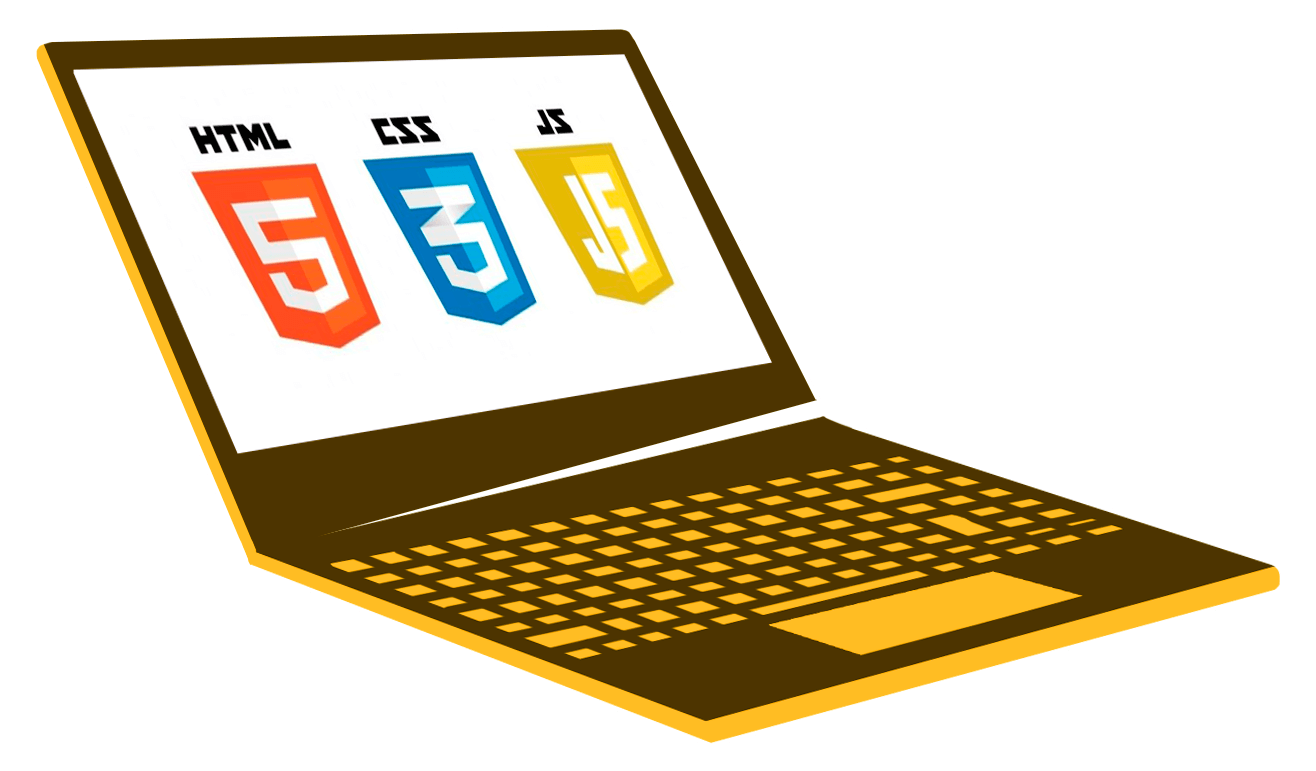
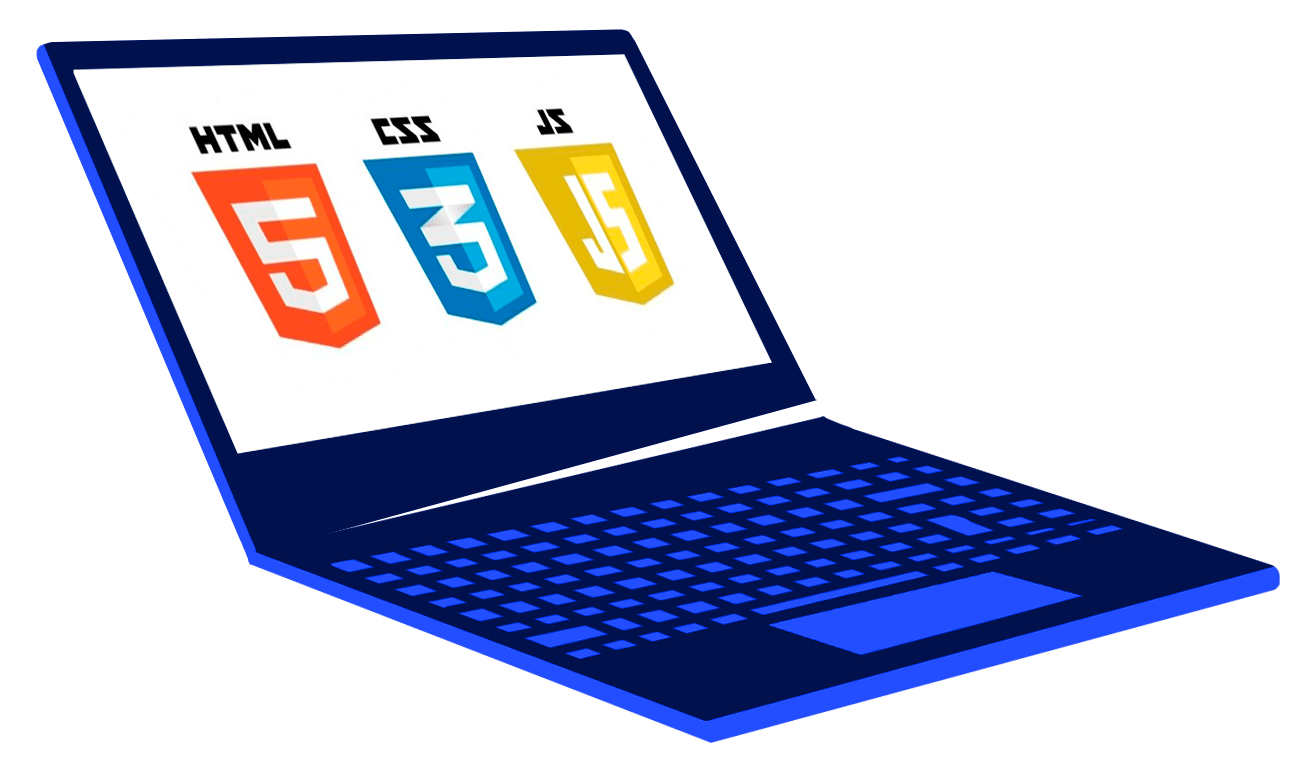
feat: rework in the design

Changed region(s): [[0.0312, 0.0311, 0.997, 0.965]]

diff --git a/src/components/Hero.tsx b/src/components/Hero.tsx
@@ -1,36 +1,54 @@
 import Image from "next/image";
 import picture from "../assets/picture.jpg";
 import "./Hero.css";
+import { Github, Linkedin } from "lucide-react";
 
 export function Hero() {
   return (
-    <section className="w-full py-36 border-b-2 border-primary bg-gradient-to-r from-terciary via-terciary to-secondary">
+    <section className="w-full py-36 border-b-2 border-primary bg-gradient-to-r from-terciary via-terciary to-secondary overflow-hidden relative">
+      <div className=" animate-[appear_3s_ease-in-out] before:absolute before:h-96 before:w-96 before:bottom-0 before:-left-10 before:bg-gradient-to-tr from-terciary via-terciary to-secondary before:z-10 before:rounded-[50%] after:h-32 after:w-32 after:absolute after:top-10 after:right-20 after:bg-gradient-to-bl after:from-transparent after:via-secondary after:to-primary after:rounded-[50%]" />
+
       <div className="flex flex-col-reverse gap-10 items-center container mx-auto px-5 sm:flex-row">
         {/*Left*/}
-        <div className="flex items-center flex-1">
-          <h1 className="text-4xl sm:text-5xl mx-auto font-bold text-zinc-200">
-            Olá,
-            <br />
-            me chamo
-            <br />
-            <p className="text-primary animate">Lucas Emanoel {"</>"}</p>
+        <div className="flex items-center flex-1 z-20">
+          <h1 className="text-6xl sm:text-6xl mx-auto my-20 font-bold font-sans text-zinc-200 ">
+            <span className="flex items-center gap-5">
+              Lucas Emanoel
+              <a
+                href="https://www.linkedin.com/in/lucas-emanoel-388733234/"
+                target="blank"
+                className="hover:cursor-pointer"
+              >
+                <Linkedin height={30} width={30} />
+              </a>
+              <a
+                href="https://github.com/lucastheldl"
+                target="blank"
+                className="hover:cursor-pointer"
+              >
+                <Github height={30} width={30} />
+              </a>
+            </span>
+            <p className="text-primary animate">
+              Desenvolvedor Frontend{"</>"}
+            </p>
           </h1>
         </div>
         {/*Right*/}
-        <div className="flex flex-col gap-10 items-center flex-1 mx-auto">
-          <Image
+        {/*  <div className="flex flex-col gap-10 items-center flex-1 mx-auto">
+           <Image
             src={picture}
             alt=""
             className="w-[350px] h-auto rounded-full border border-primary"
-          />
-          <a
+          /> 
+           <a
             href="/files/curriculo.pdf"
             download
             className="hidden text-2xl font-bold text-terciary rounded-full bg-primary py-5 px-12 border border-transparent sm:block cursor-pointer transition-colors hover:border-primary hover:bg-terciary hover:text-primary"
           >
             Baixar CV
-          </a>
-        </div>
+          </a> 
+        </div> */}
       </div>
     </section>
   );

diff --git a/src/lib/lists.ts b/src/lib/lists.ts
@@ -2,10 +2,11 @@
 import PokeApi from "../assets/Pokeapi.jpg";
 import tmdb from "../assets/tmdb.png";
 import weather from "../assets/weatherApp.jpg";
-import pomodoro from "../assets/1681137327493.jpg";
+import pomodoro from "../assets/PomodoroApp.png";
 import shirtShop from "../assets/shirtShop.png";
-import miniBlog from "../assets/miniBog.jpg";
+import miniBlog from "../assets/MiniBlog.png";
 import booksCollection from "../assets/booksCollecion.jpg";
+import githubBlog from "../assets/GithubBlog.png";
 import placeholder from "../assets/reactLogo.jpg";
 //skills
 import html from "../assets/html.png";
@@ -77,7 +78,7 @@ export const projectList = [
   {
     image: miniBlog,
     link: "https://lucastheldl.github.io/React-MiniBlog/",
-    title: "Mini blog",
+    title: "Mini Blog",
     technology: ["React", "CSS", "Firebase"],
     content:
       "Blog público onde o usuário pode criar, editar e visualizar posts",
@@ -85,17 +86,24 @@ export const projectList = [
   {
     image: shirtShop,
     link: "https://shirt-shop-three.vercel.app/",
-    title: "Shirt shop",
+    title: "Loja de Camisas",
     technology: ["Next.js", "Typescript", "Stripe", "Stitches CSS"],
     content: "E-commerce de camisetas com carrinho de compras e checkout",
   },
   {
     image: pomodoro,
     link: "https://lucastheldl.github.io/IgnitePomodoro/",
-    title: "Pomodoro app",
+    title: "Timer Pomodoro",
     technology: ["React", "Typescript", "Styled components"],
     content: "Aplicação de gerenciamento de tarefas usando timer",
   },
+  {
+    image: githubBlog,
+    link: "https://lucastheldl.github.io/GithubBlog/",
+    title: "Tech Blog Github",
+    technology: ["React", "Typescript", "CSS modules"],
+    content: "Blog para documentar minhas postagens de tecnologia",
+  } /*,
   {
     image: booksCollection,
     link: "https://lucastheldl.github.io/BookCollection/",

diff --git a/src/components/Navbar.tsx b/src/components/Navbar.tsx
@@ -10,7 +10,7 @@ export function Navbar() {
     burguerMenu?.classList.replace("opacity-0", "opacity-100");
   }
   return (
-    <nav className="w-full py-5 text-zinc-300 fixed border-b-2 border-primary bg-secondary z-10">
+    <nav className="w-full py-5 text-slate-800 fixed border-b-2 border-primary bg-secondary z-10">
       <div className="flex container mx-auto px-2 items-center justify-between">
         <a href="#" className="text-[2rem] text-primary font-bold">
           {"< / >"}
@@ -20,10 +20,10 @@ export function Navbar() {
             <a href="#about">Sobre mim</a>
           </li>
           <li className="cursor-pointer mr-5 hover:text-primary transition-colors">
-            <a href="#skills">Habilidades</a>
+            <a href="#projects">Projetos</a>
           </li>
           <li className="cursor-pointer mr-5 hover:text-primary transition-colors">
-            <a href="#projects">Projetos</a>
+            <a href="#skills">Habilidades</a>
           </li>
           <li className="cursor-pointer mr-5 hover:text-primary transition-colors">
             <a href="#contact">Contato</a>

diff --git a/src/components/projects/Projects.tsx b/src/components/projects/Projects.tsx
@@ -12,7 +12,7 @@ export function Projects() {
         Projetos
       </h2>
       <div className="flex flex-col items-center container mx-auto px-5">
-        <div className="grid grid-cols-1 md:grid-cols-3 lg:grid-cols-4 gap-10">
+        <div className="grid grid-cols-1 md:grid-cols-3 lg:grid-cols-4 gap-5">
           {projectList.map((project, i) => {
             return (
               <ProjectCard
@@ -31,7 +31,7 @@ export function Projects() {
           target="blank"
           className="flex justify-center"
         >
-          <p className="flex items-center gap-1 mt-20 text-xl font-bold text-zinc-200 cursor-pointer transition-colors hover:text-primary">
+          <p className="flex items-center gap-1 mt-20 text-xl font-bold text-terciary cursor-pointer transition-colors hover:text-primary">
             <ArrowUpLeft size={30} /> Repositórios Github
           </p>
         </a>

diff --git a/src/components/projects/ProjectCard.tsx b/src/components/projects/ProjectCard.tsx
@@ -22,12 +22,8 @@ export function ProjectCard({
       target="_blank"
       className="flex flex-col relative justify-between items-center gap-3 max-w-[300px] min-w-[210px] h-[400px] bg-terciary rounded-xl p-3 border border-transparent transition-all hover:border-primary hover:-translate-y-1"
     >
-      <div className="min-w-[200px] h-52 bg-secondary rounded-xl overflow-hidden">
-        <Image
-          src={coverImage}
-          alt={"project cover"}
-          className="object-cover h-full w-auto"
-        />
+      <div className="min-w-[200px] h-52 bg-transparent flex items-center">
+        <Image src={coverImage} alt={"project cover"} className="w-auto" />
       </div>
       <h3 className="text-xl font-bold text-primary">{title}</h3>
       <p className="text-center">{content}</p>

diff --git a/src/components/Skills.tsx b/src/components/Skills.tsx
@@ -15,9 +15,10 @@ export function Skills() {
 
   return (
     <section
-      className="animate-[wiggle_1s_ease-in-out_infinite] flex-col w-full py-32 border-b-2 border-primary bg-gradient-to-r from-terciary via-terciary to-secondary"
+      className="animate-[wiggle_1s_ease-in-out_infinite] flex-col w-full py-32 border-b-2 border-primary bg-gradient-to-r from-transparent via-terciary to-secondary relative overflow-hidden"
       id="skills"
     >
+      <div className=" after:h-96 after:w-96 after:absolute after:-top-10 after:-right-10 after:bg-gradient-to-bl after:from-terciary after:via-secondary after:to-secondary after:rounded-[50%]" />
       <h2 className="text-center mb-20 text-4xl font-bold text-primary">
         Habilidades
       </h2>

diff --git a/tailwind.config.js b/tailwind.config.js
@@ -8,7 +8,7 @@ module.exports = {
   theme: {
     extend: {
       fontFamily: {
-        sans: "var(--font-roboto)",
+        sans: ["Roboto", "sans-serif"],
       },
       backgroundImage: {
         "gradient-radial": "radial-gradient(var(--tw-gradient-stops))",
@@ -16,9 +16,9 @@ module.exports = {
           "conic-gradient(from 180deg at 50% 50%, var(--tw-gradient-stops))",
       },
       colors: {
-        primary: "#Ffce00",
-        secondary: "#121214",
-        terciary: "#29292E",
+        primary: "#7dbfff",
+        secondary: "#004E99",
+        terciary: "#051A2D",
       },
       grayscale: {
         100: "100%",

diff --git a/src/app/page.tsx b/src/app/page.tsx
@@ -10,11 +10,11 @@ import { Projects } from "../components/projects/Projects";
 export default function Home() {
   return (
     <main className="flex min-h-screen w-full flex-col items-center text-zinc-200 scroll">
-      <Navbar />
+      {/* <Navbar /> */}
       <Hero />
-      <About />
-      <Skills />
       <Projects />
+      <Skills />
+      <About />
       <Footer />
     </main>
   );

diff --git a/src/app/globals.css b/src/app/globals.css
@@ -1,10 +1,12 @@
+@import url("https://fonts.googleapis.com/css2?family=Roboto:ital,wght@0,100;0,300;0,400;0,500;0,700;0,900;1,100;1,300;1,400;1,500;1,700;1,900&display=swap");
+
 @tailwind base;
 @tailwind components;
 @tailwind utilities;
 
 :root {
-  --primary: #ffce00;
-  --secondary: #121214;
+  --primary: #a5cad2;
+  --secondary: #11131c;
 }
 *::-webkit-scrollbar {
   width: 15px;

diff --git a/src/components/TechButton.tsx b/src/components/TechButton.tsx
@@ -4,7 +4,7 @@ interface TechButtonProps {
 
 export function TechButton({ tech }: TechButtonProps) {
   return (
-    <div className="rounded-md bg-zinc-900 text-zinc-300 p-[4px] text-[0.7rem] font-bold">
+    <div className="rounded-md bg-primary text-slate-800 p-[4px] text-[0.7rem] font-bold">
       {tech}
     </div>
   );

diff --git a/src/components/Hero.css b/src/components/Hero.css
@@ -19,3 +19,11 @@
     width: 100%;
   }
 }
+@keyframes appear {
+  from {
+    opacity: 0;
+  }
+  to {
+    opacity: 100%;
+  }
+}
